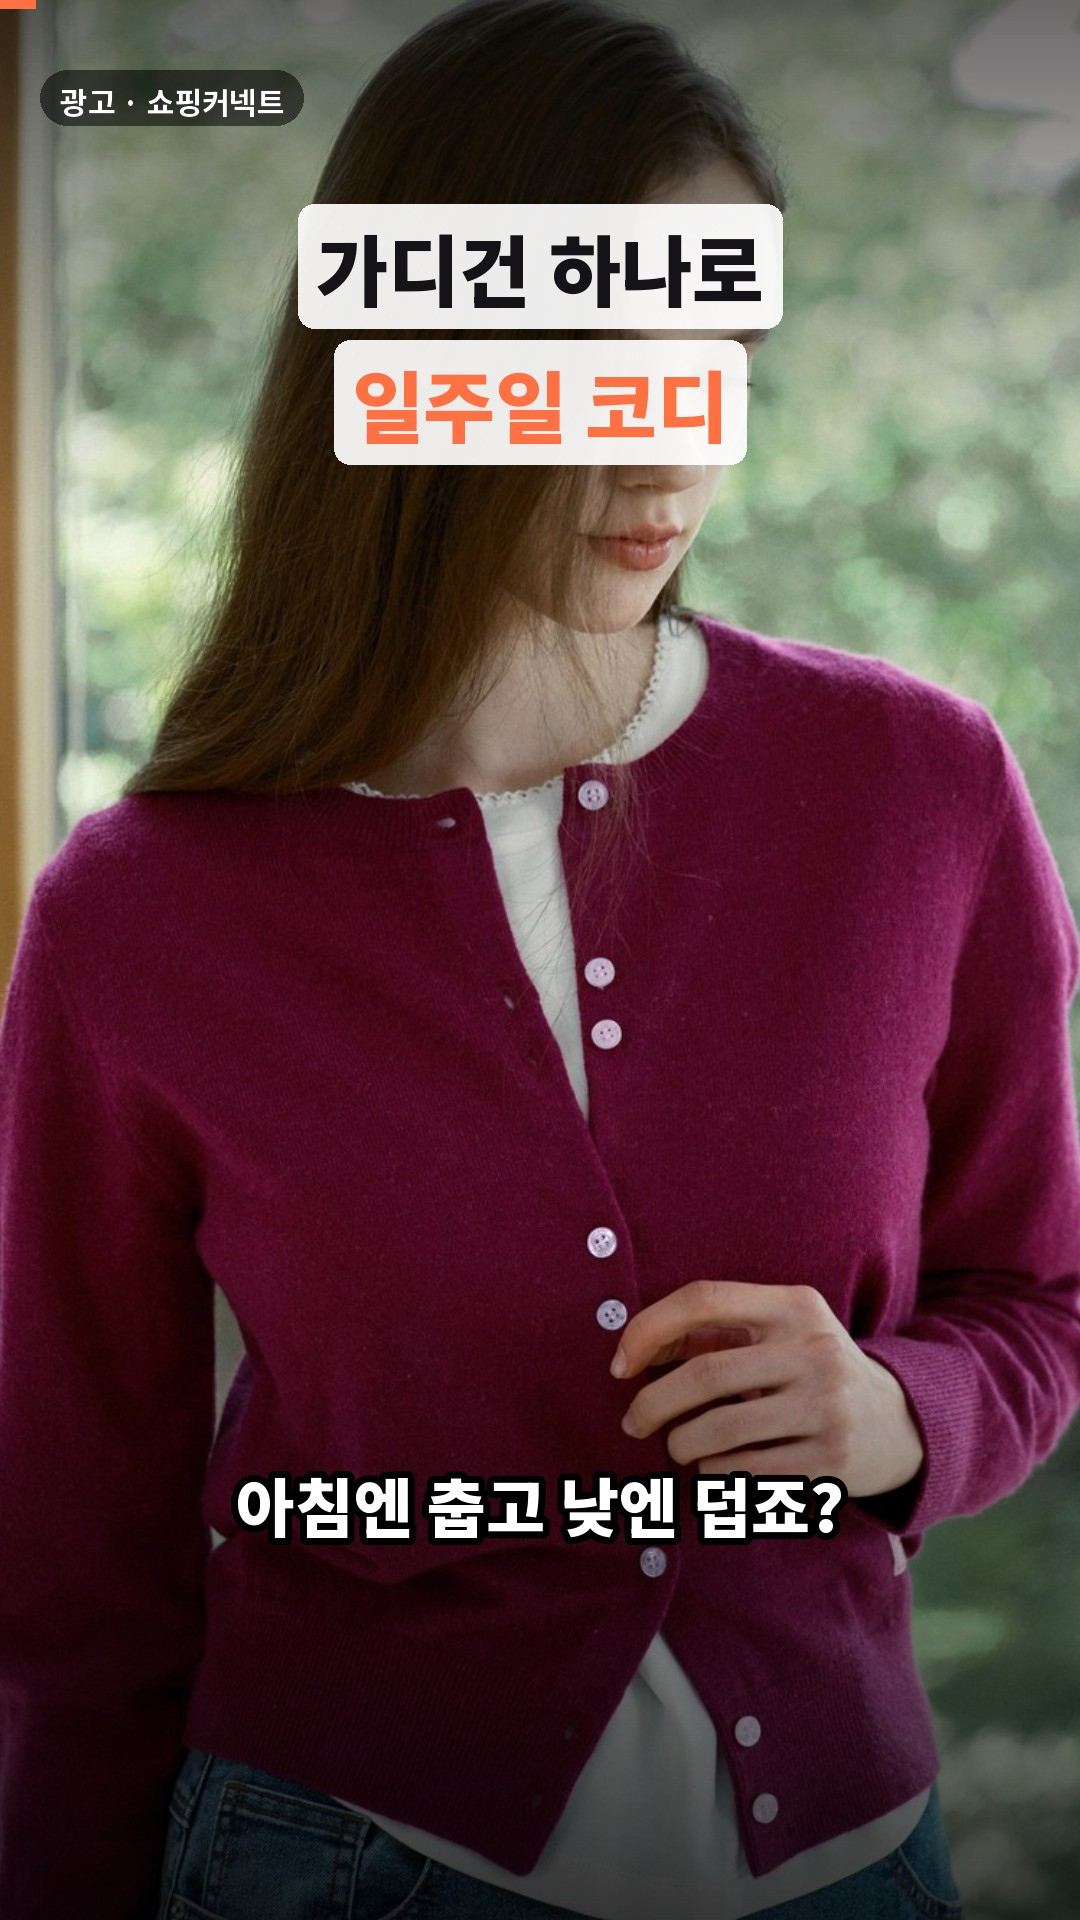
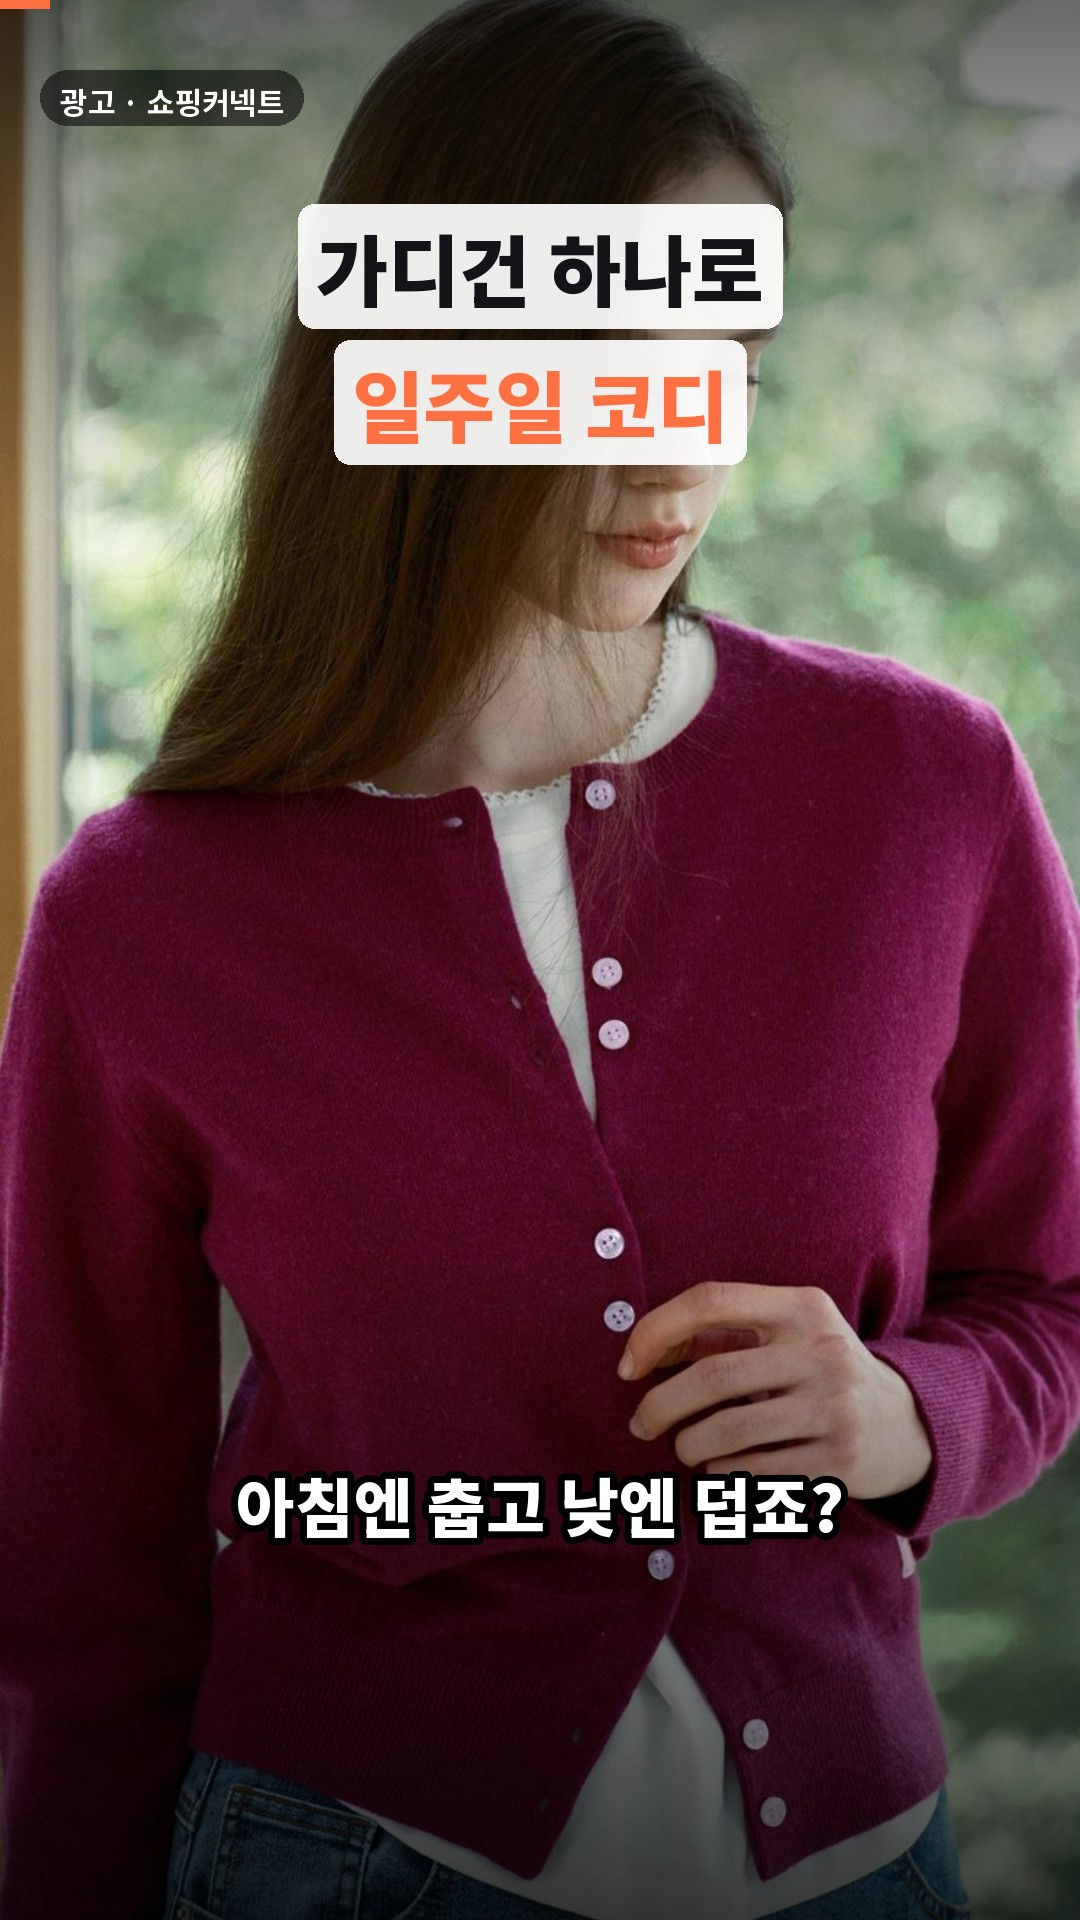
클립: 말 속도 +15%, 길이 25~30초 기준으로 변경
Claude-Session: https://claude.ai/code/session_01XztspwKoBYcoqFaT1WP8NL

diff --git a/.claude/skills/naver-shopping-post/scripts/make_clip.py b/.claude/skills/naver-shopping-post/scripts/make_clip.py
@@ -7,7 +7,7 @@
 
 clip.json 예:
 {
-  "voice": "fr-FR-VivienneMultilingualNeural", "rate": "+0%",
+  "voice": "fr-FR-VivienneMultilingualNeural", "rate": "+15%",
   "badge": "광고 · 쇼핑커넥트",
   "scenes": [
     {"photo": "photos/photo_01.jpg", "headline": "히터 전기세\\n한 달 8천원대?",
@@ -42,8 +42,8 @@ FONT_URLS = {
 }
 YELLOW = (255, 214, 64)
 ACCENT = (255, 112, 67)
-GAP = 0.35          # 장면 사이 쉼(초)
-FADE = 0.3          # 장면 전환(초)
+GAP = 0.18          # 장면 사이 쉼(초)
+FADE = 0.25         # 장면 전환(초)
 
 
 def ensure_fonts():
@@ -335,7 +335,7 @@ def main():
     C = P / "clip"
     cfg = json.loads((C / "clip.json").read_text(encoding="utf-8"))
     voice = a.voice or cfg.get("voice", "fr-FR-VivienneMultilingualNeural")
-    rate = a.rate or cfg.get("rate", "+0%")
+    rate = a.rate or cfg.get("rate", "+15%")
     seed = a.seed if a.seed is not None else sum(map(ord, P.name)) % 7
     ensure_fonts()
     work = C / "_work"

diff --git a/.claude/skills/naver-shopping-post/SKILL.md b/.claude/skills/naver-shopping-post/SKILL.md
@@ -196,19 +196,19 @@ python3 $S/render_preview.py $P --link "<상품 링크>"
 
 ## 5.5 네이버 클립 영상 만들기 (링크를 받으면 기본으로 같이 만든다)
 
-블로그 글과 같은 사실만 쓰는 30~40초 세로 영상(1080x1920)을 만든다. 쇼핑커넥트 스티커는 사용자가 클립 앱에서 직접 붙인다.
+블로그 글과 같은 사실만 쓰는 25~30초 세로 영상(사용자 지시)(1080x1920)을 만든다. 쇼핑커넥트 스티커는 사용자가 클립 앱에서 직접 붙인다.
 
 1. 장면 사진 고르기: 블로그 사진 4~5장 + 상세 이미지 2~3장, 모두 6~8장. `$P/clip/img/`에 긴 변 1400px로 저장한다.
    효과 %, 전후 비교, 순위·만족도 이미지는 쓰지 않는다. 모델(연예인) 얼굴이 크게 나온 사진도 피한다.
 2. `$P/clip/clip.json` 작성(형식은 `scripts/make_clip.py` 맨 위 설명):
-   - 장면 7~8개, 장면마다 `say`는 한 문장(15~30자). 전체 내레이션은 220~300자 = 약 35초.
+   - 장면 7~8개, 장면마다 `say`는 짧은 한 문장(12~25자). 전체 내레이션은 150~180자(공백 포함) = 약 25~30초. 만든 뒤 길이가 30초를 넘으면 문장을 줄여 다시 만든다.
    - 1번 장면은 2초 안에 걸리는 질문·숫자 훅("히터 살 때, 전기세부터 걱정되죠?"). 상품명은 2번 장면에.
    - `headline`은 화면 위 큰 글자(8~14자, 줄바꿈 1번까지), `highlight`는 자막에서 노랗게 칠할 숫자·핵심어.
    - 숫자는 읽히게 쓴다(33㎡ → "33제곱미터", 3.9kg → "3.9킬로그램"). 과장 금지. 단점 장면은 넣지 않는다. 조건이 있는 숫자는 조건만 짧게 붙인다(예: "절전 모드 기준 한 달 8천원대").
    - 마지막 장면: "할인가랑 이벤트는 쇼핑 스티커에서 확인하세요" 같은 안내(재촉하지 않기).
    - `upload`: 클립 제목(20자 안팎, 검색어 포함), 설명(대가성 문구 반드시 포함), 해시태그 4~6개.
    - 여행 상품은 장면 순서를 일정 순서로, 마지막에 "출발일별 가격은 쇼핑 스티커에서".
-3. 실행: `python3 scripts/make_clip.py $P` (음성: edge-tts 신경망 음성. **기본은 사용자가 고른 fr-FR-VivienneMultilingualNeural(비비안, 여성), 속도 +0%**. clip.json의 voice에도 이걸 쓴다. 다른 목소리는 사용자가 요청할 때만).
+3. 실행: `python3 scripts/make_clip.py $P` (음성: edge-tts 신경망 음성. **기본은 사용자가 고른 fr-FR-VivienneMultilingualNeural(비비안, 여성), 속도 +15%(사용자 지시: 조금 빠르게)**. clip.json의 voice에도 이걸 쓴다. 다른 목소리는 사용자가 요청할 때만).
    edge-tts가 없으면 `pip install edge-tts`. 배경음은 스크립트가 직접 합성(저작권 문제 없음), 말할 때 자동으로 작아진다.
 4. 확인: ffmpeg로 4~6개 시점의 프레임을 뽑아 Read로 보고, 글자가 사진·서로 겹치지 않는지, 자막이 말 단위로 자연스럽게 끊기는지 본다.
 5. 전달: SendUserFile로 `clip.mp4`, `cover.jpg`, `upload.txt`를 보낸다. 올리는 방법을 짧게 안내한다:
